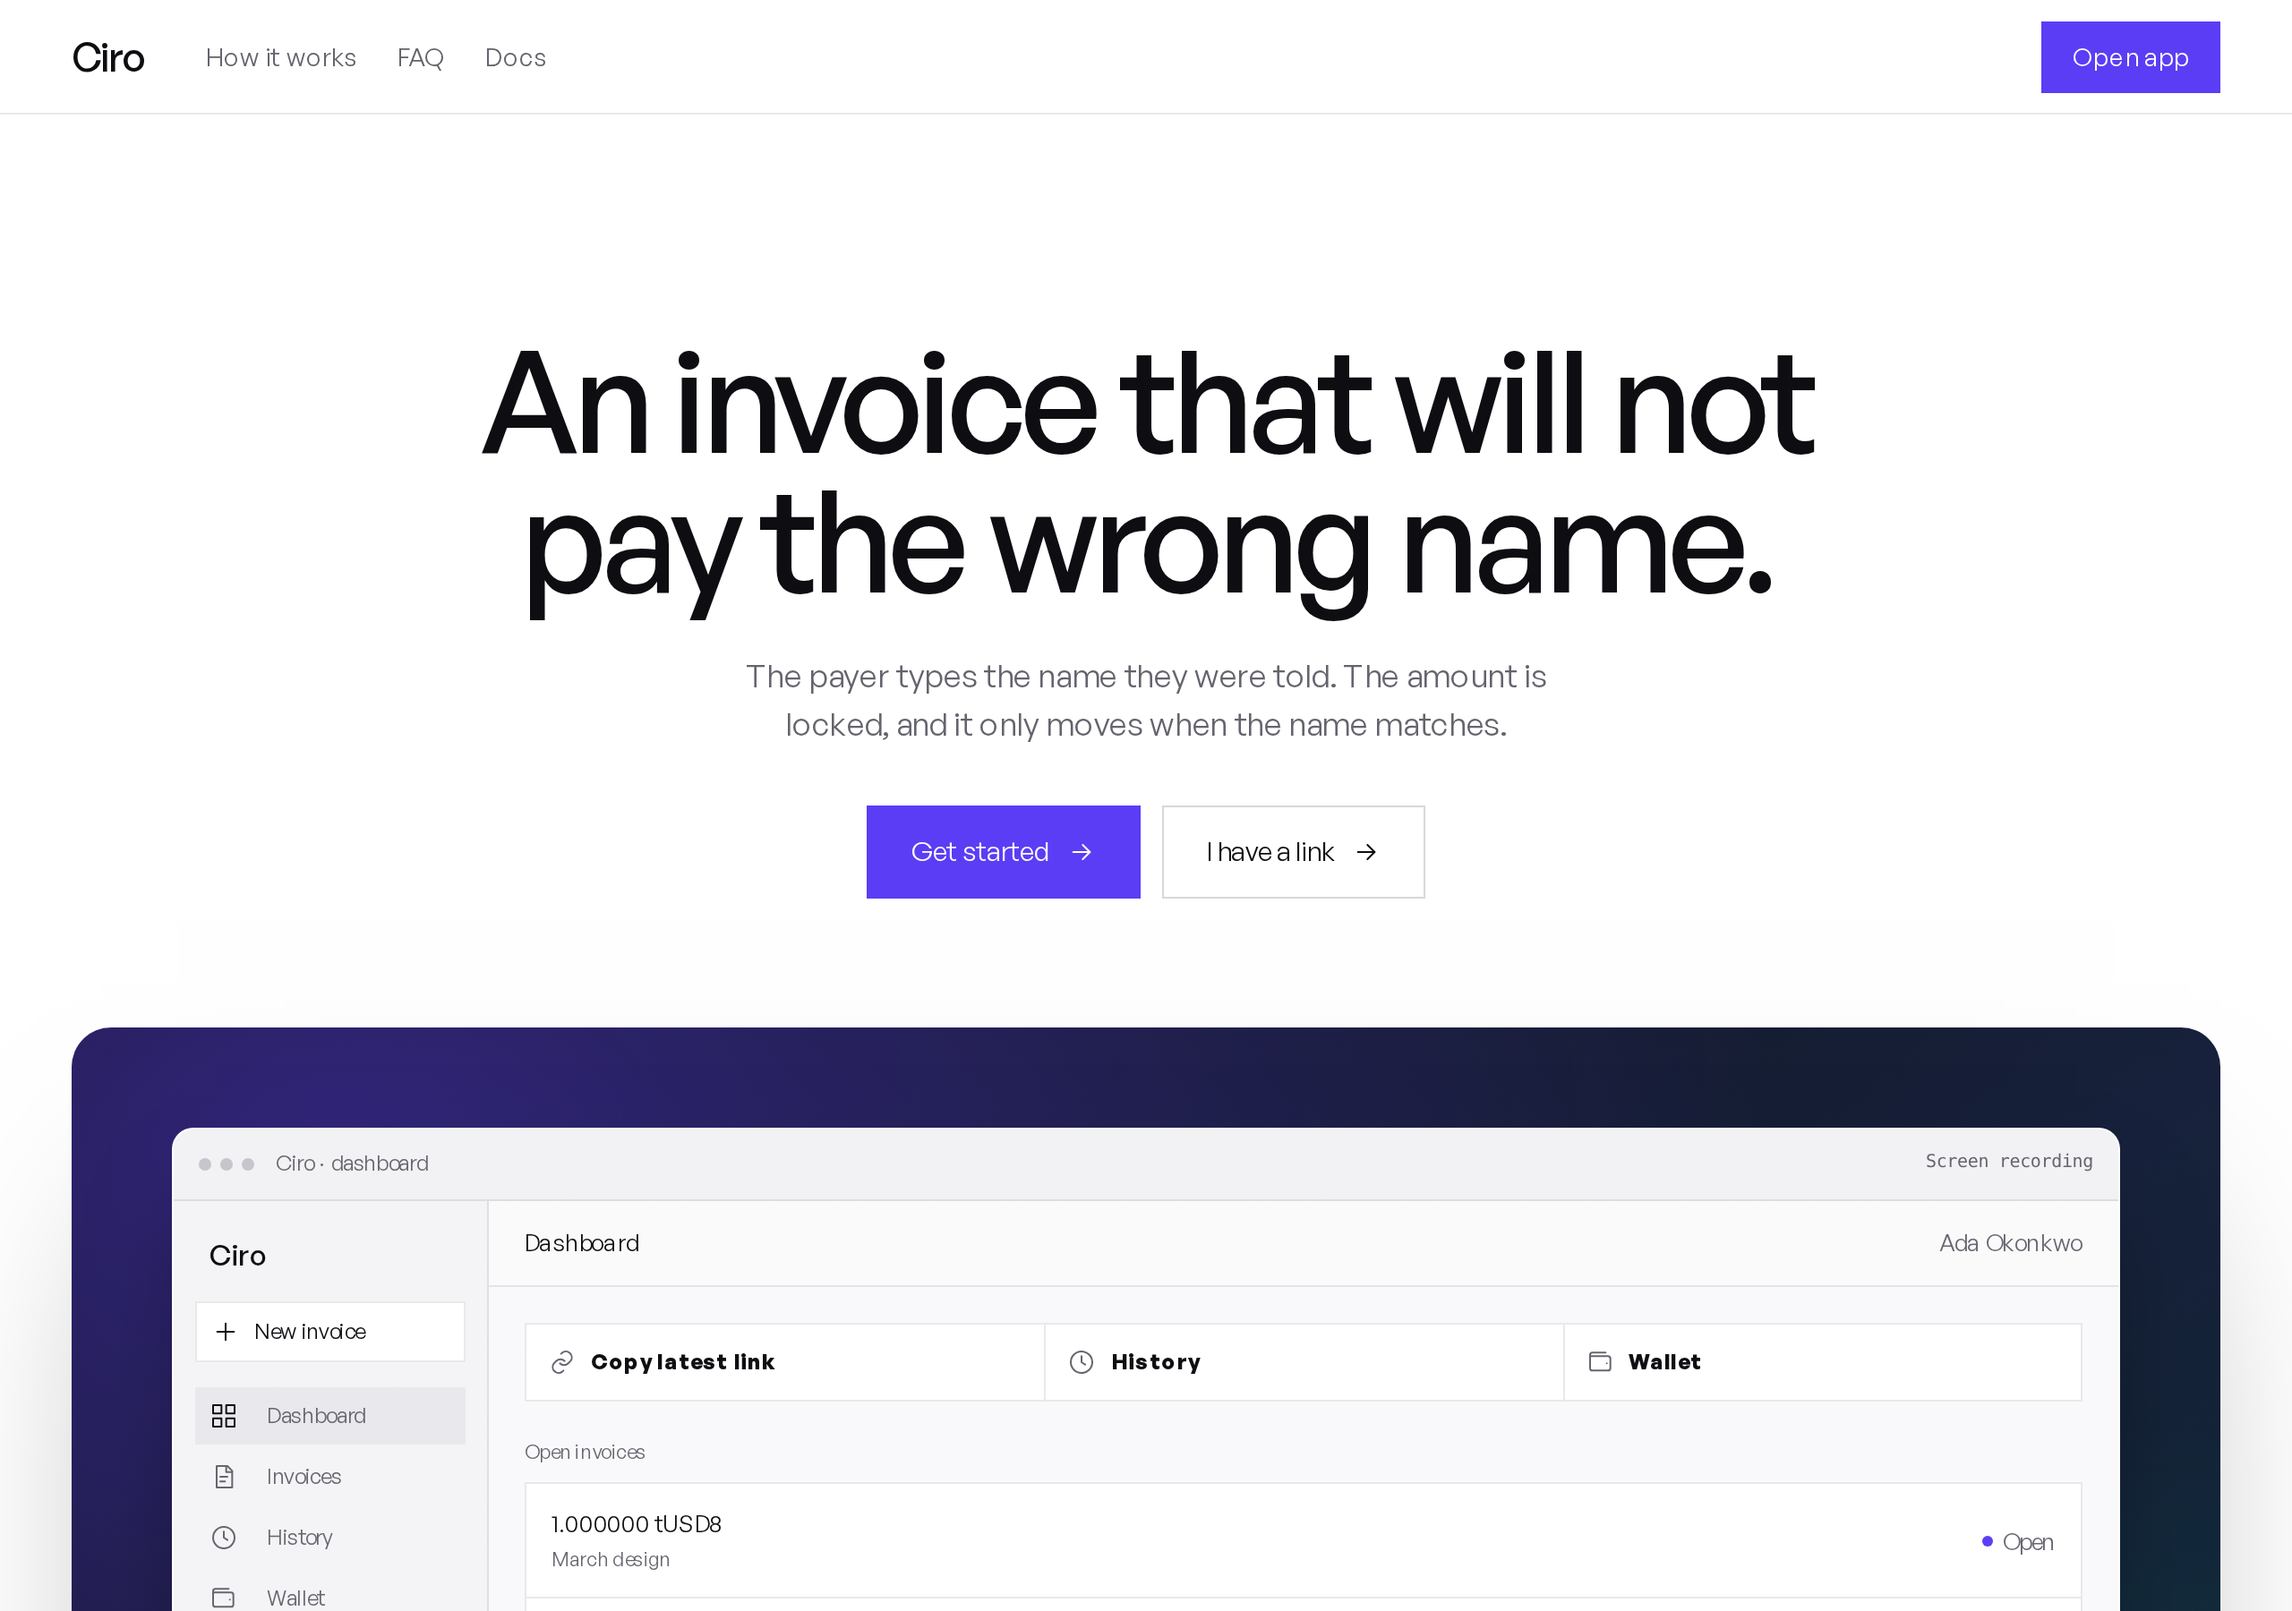
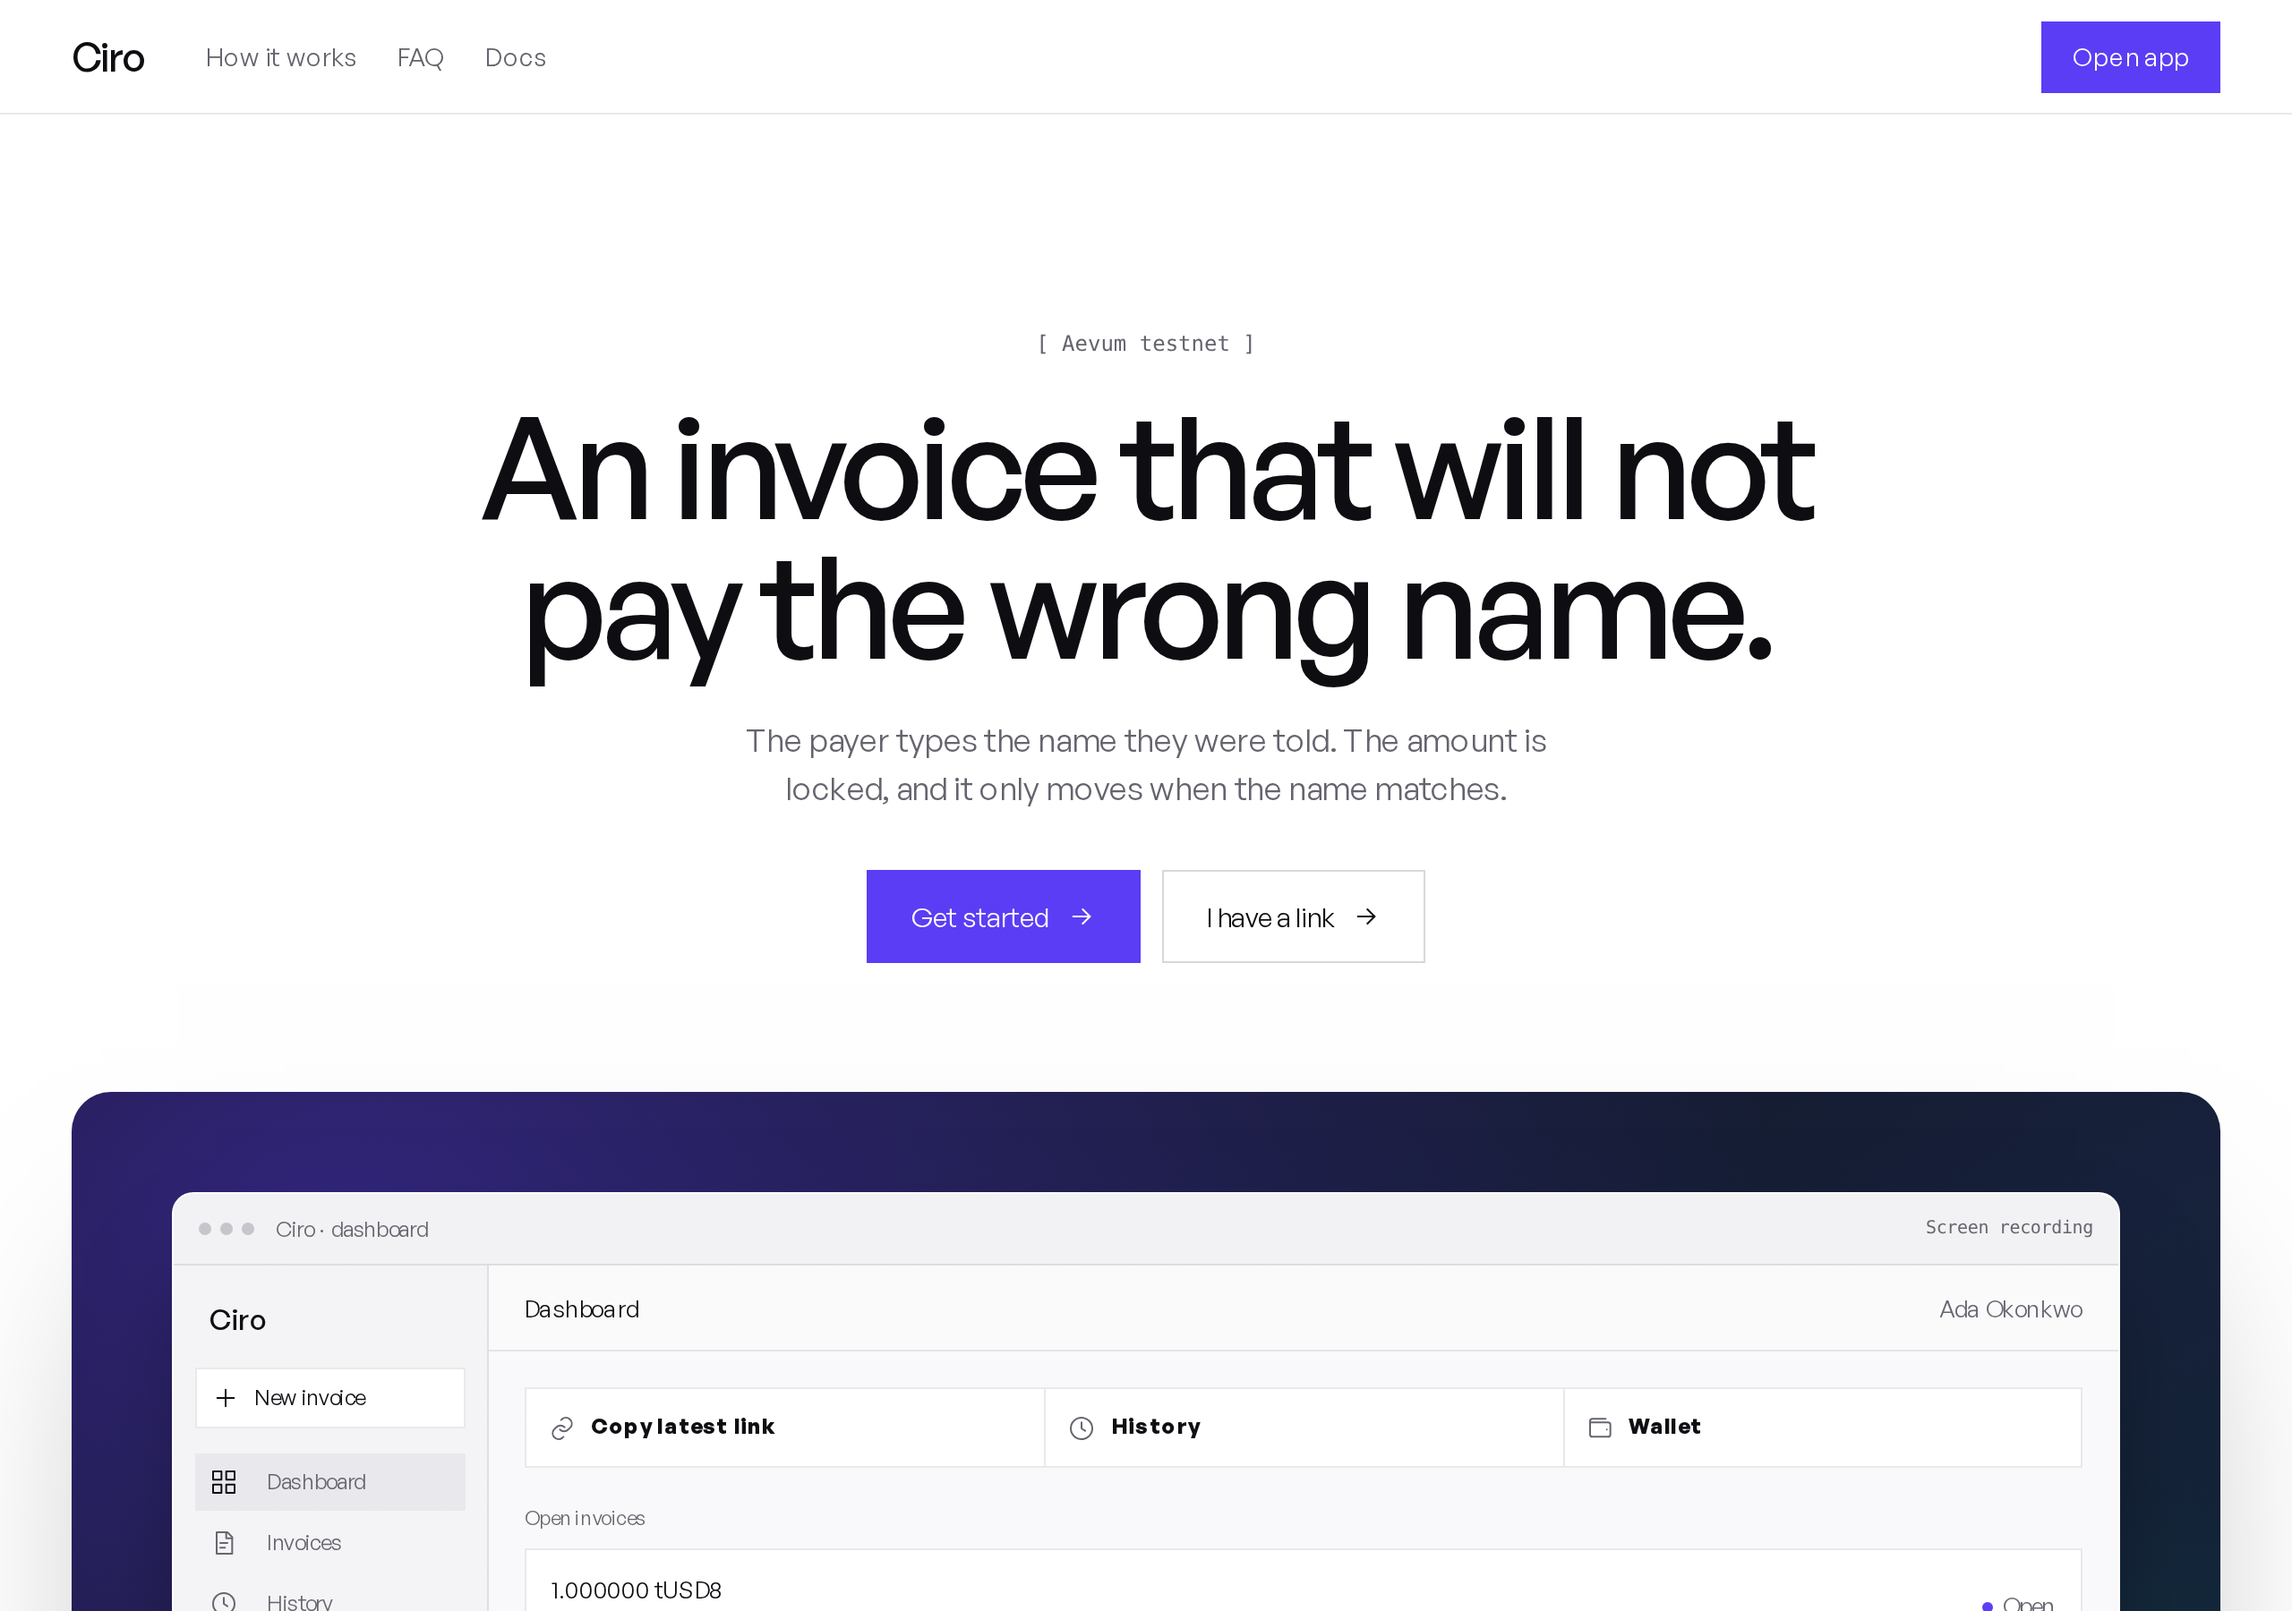
Add Maren's hero bracket, ruled sections, status card, and closing card (#11)

diff --git a/web/src/styles.css b/web/src/styles.css
@@ -586,13 +586,32 @@ a.row:hover { background: var(--surface-inset); }
   .stage-row { padding: 10px 12px; }
 }
 
-.section { padding-top: 80px; }
-@media (min-width: 768px) { .section { padding-top: 104px; } }
-.section-head { max-width: 640px; }
+.section { border-top: 1px solid var(--hairline); padding: 80px 0; }
+@media (min-width: 768px) { .section { padding: 128px 0; } }
+.section-head { max-width: 640px; margin: 0 auto; text-align: center; }
 .section-head .h2 { margin-top: 16px; }
 .section-head .lede { max-width: 48ch; margin-top: 16px; }
 
-.steps { max-width: 880px; margin: 40px 0 0; display: grid; }
+.hero-copy > .bracket { margin-bottom: 20px; }
+
+.status-grid { display: grid; max-width: 880px; margin: 40px auto 0; }
+@media (min-width: 640px) { .status-grid { grid-template-columns: repeat(2, minmax(0, 1fr)); } }
+.status-grid > div { padding: 24px; border-top: 1px solid var(--hairline); }
+@media (min-width: 640px) {
+  .status-grid > div { padding: 32px; }
+  .status-grid > div:nth-child(-n + 2) { border-top: 0; }
+  .status-grid > div:nth-child(even) { border-left: 1px solid var(--hairline); }
+}
+.status-grid dt { font-size: 1.125rem; letter-spacing: -0.016em; }
+.status-grid dd { margin: 8px 0 0; color: var(--muted); font-size: 0.9375rem; line-height: 1.55; }
+
+.closing-card { max-width: 880px; margin: 0 auto; padding: 64px 24px; text-align: center; }
+@media (min-width: 768px) { .closing-card { padding: 80px 48px; } }
+.closing-card .h1 { margin: 16px auto 0; max-width: 18ch; }
+.closing-card .lede { margin: 16px auto 0; max-width: 44ch; }
+.closing-card .actions { margin-top: 32px; justify-content: center; }
+
+.steps { max-width: 880px; margin: 40px auto 0; display: grid; }
 @media (min-width: 768px) { .steps { grid-template-columns: repeat(3, minmax(0, 1fr)); } }
 .step { padding: 24px; border-top: 1px solid var(--hairline); }
 .step:first-child { border-top: 0; }
@@ -670,7 +689,7 @@ a.row:hover { background: var(--surface-inset); }
 .why-facts dt { font-size: 0.8125rem; color: var(--ink); }
 .why-facts dd { margin: 0; font-size: 0.9375rem; color: var(--muted); }
 
-.faq-list { max-width: 820px; margin: 40px 0 0; }
+.faq-list { max-width: 820px; margin: 40px auto 0; }
 .faq-item + .faq-item { border-top: 1px solid var(--hairline); }
 .faq-item summary {
   display: flex;
@@ -701,7 +720,7 @@ a.row:hover { background: var(--surface-inset); }
   animation: faq-in 0.18s var(--ease) both;
 }
 
-.build-grid { max-width: 880px; margin: 40px 0 0; display: grid; gap: 12px; }
+.build-grid { max-width: 880px; margin: 40px auto 0; display: grid; gap: 12px; }
 @media (min-width: 720px) { .build-grid { grid-template-columns: repeat(3, minmax(0, 1fr)); } }
 .build-card {
   display: flex;
@@ -733,7 +752,7 @@ a.row:hover { background: var(--surface-inset); }
 .build-card:hover .build-link { color: var(--ink); }
 .build-card:hover .arrow { transform: translateX(2px); }
 
-.link-card { max-width: 680px; margin: 40px 0 0; }
+.link-card { max-width: 680px; margin: 40px auto 0; }
 .link-card .card-pad { padding: 24px 20px; }
 @media (min-width: 640px) { .link-card .card-pad { padding: 32px; } }
 .link-form { display: flex; flex-direction: column; gap: 12px; margin-top: 24px; }

diff --git a/web/src/pages.js b/web/src/pages.js
@@ -460,6 +460,7 @@ export function landing() {
     <main class="container landing pub-main">
       <section class="hero">
         <div class="hero-copy">
+          <p class="bracket">[ Aevum testnet ]</p>
           <h1 class="display">An invoice that will not pay the wrong name.</h1>
           <p class="lede">The payer types the name they were told. The amount is locked, and it only moves when the name matches.</p>
           <div class="hero-actions">
@@ -517,9 +518,29 @@ export function landing() {
           </dl>
         </div>
       </section>
+      <section class="section" id="status" aria-labelledby="status-title">
+        <div class="section-head">
+          <p class="bracket">[ Status ]</p>
+          <h2 class="h2" id="status-title">Where things stand.</h2>
+        </div>
+        <dl class="card status-grid">
+          <div><dt class="h3">Non-custodial</dt><dd>Your wallet signs. Ciro holds no key and no funds.</dd></div>
+          <div><dt class="h3">Exact name</dt><dd>The contract pays only the name registered on the invoice.</dd></div>
+          <div><dt class="h3">Exact amount</dt><dd>The invoice locks the amount, and the payer cannot change it.</dd></div>
+          <div><dt class="h3">Testnet</dt><dd>tUSD8 on Aevum testnet, fee zero. No real money moves.</dd></div>
+        </dl>
+      </section>
       ${faq()}
       ${docsTeaser()}
       ${lookup()}
+      <section class="section" aria-labelledby="closing-title">
+        <div class="card closing-card">
+          <p class="bracket">[ Testnet ]</p>
+          <h2 class="h1" id="closing-title">Try the full loop on Aevum testnet.</h2>
+          <p class="lede">Register a name, send an invoice, and pay it with testnet tUSD8.</p>
+          <div class="actions"><a class="btn btn-primary btn-lg" href="#/start"><span>Open the app</span>${arrow()}</a></div>
+        </div>
+      </section>
     </main>
     ${footer()}
   `, true);
